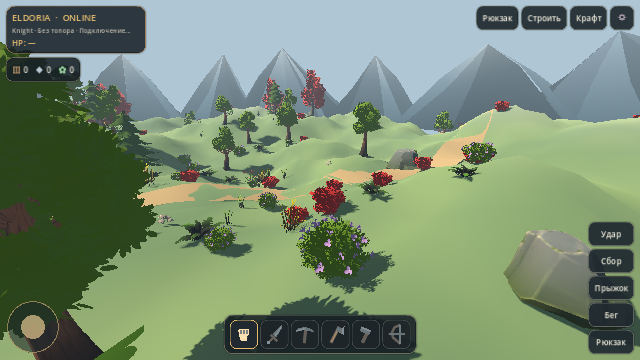
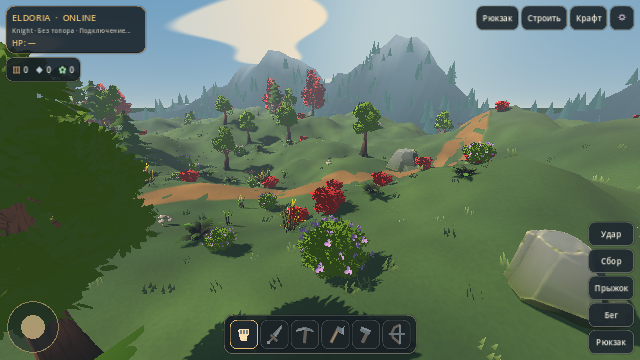
Build layered alpine scenery and quality-gated landscape materials

diff --git a/docs/TASK-026V_CONCEPT_PASS.md b/docs/TASK-026V_CONCEPT_PASS.md
@@ -10,3 +10,19 @@
 Выполнены: live_ui_smoke, preview_smoke, collision_perf_e2e, forest_update_e2e, OpenGL render_probe — PASS. 347 ресурсов, подпись 1181774555 сохранена. Сняты шесть кадров 1280×720 и шесть HUD кадров 640×360. Полный сетевой набор был выполнен в предыдущем проходе; в этом проходе повторно не запускался.
 
 Концепт остаётся художественным ориентиром. Его густота леса, сложность рельефа и деталей пока не достигнуты. Android FPS не измерялся, дополнительное усложнение Low без физических замеров не вводилось. Сетевые протоколы, сервер и production не изменялись.
+
+## Продолжение: непрерывное окружение
+
+В рабочей сцене добавлен `alpine_scenery.gd`: непрерывная сетка горного пояса вместо отдельных пирамид и один MultiMesh мелкой непрозрачной травы для High. Low сохраняет 17 видимых vegetation batches; High теперь 25 вместо 24. Gameplay RNG и 347 ресурсов сохранены. Повторно выполнены collision_perf_e2e и live_ui_smoke: PASS. Новые сценовые PNG обновлены; HUD PNG пока относятся к предыдущему проходу.
+
+Решение о движке: пока сохраняем Godot 4.5.2. [Официальное описание архитектуры рендера](https://docs.godotengine.org/en/4.5/engine_details/architecture/internal_rendering_architecture.html) подтверждает ограничения Mobile/Compatibility для дорогих эффектов, но перенос сам по себе не решит форму ландшафта и подбор материалов. Следующие необходимые шаги: связная композиция леса и дальних планов, вода, детали лагеря, затем полная визуальная и производительная проверка. Сходство с целевым концептом пока НЕ достигнуто; цель остаётся активной.
+
+### Дальний лес, небо и поверхность земли
+
+Добавлены 850 простых силуэтных хвойных деревьев за игровой границей одним MultiMesh (только High), аналитический sky shader без texture fetch/volumetrics, текстурная неоднородность земли процедурным shader только для High. Нормали земли вычисляются из исходной height_at; позиции/коллизии не изменены. Low: 17 batches, High: 26. collision_perf_e2e PASS. HUD кадры обновлены.
+
+Короткий Windows benchmark: Intel UHD 730, 1280×720, GL Compatibility, 180 кадров после прогрева для каждой камеры/качества. Сырой журнал: screenshots/task026v_concept/windows-benchmark.txt. Avg FPS 26.4–31.1, p95 35.82–44.00 ms. Это диагностический прогон текущего рабочего окружения, не Android и не доказательство оптимизации. Выполнен до последней правки нормалей земли. Следующий этап требует полноценного сопоставимого baseline и актуальных замеров после завершения художественного прохода. Цель сходства с концептом остаётся незавершённой.
+
+### Вода и тропа — промежуточная фиксация
+
+Добавлена мягкая неоднородная граница тропы и её High-материал, непрозрачный water shader с рябью только High. Исправлены артефакты процедурного шума земли и согласование яркости. Overlay считает новые декоративные batches и исключает нулевые transforms исчерпанных ресурсов. Повторно PASS: collision_perf_e2e, live_ui_smoke, preview_smoke, render_probe OpenGL, diagnostics_e2e. Сценовые и HUD PNG обновлены. Прежний benchmark относится к более раннему состоянию; для финальной оценки требуется повторение. Это промежуточный коммит: лагерь и точное соответствие концепту ещё не завершены.
